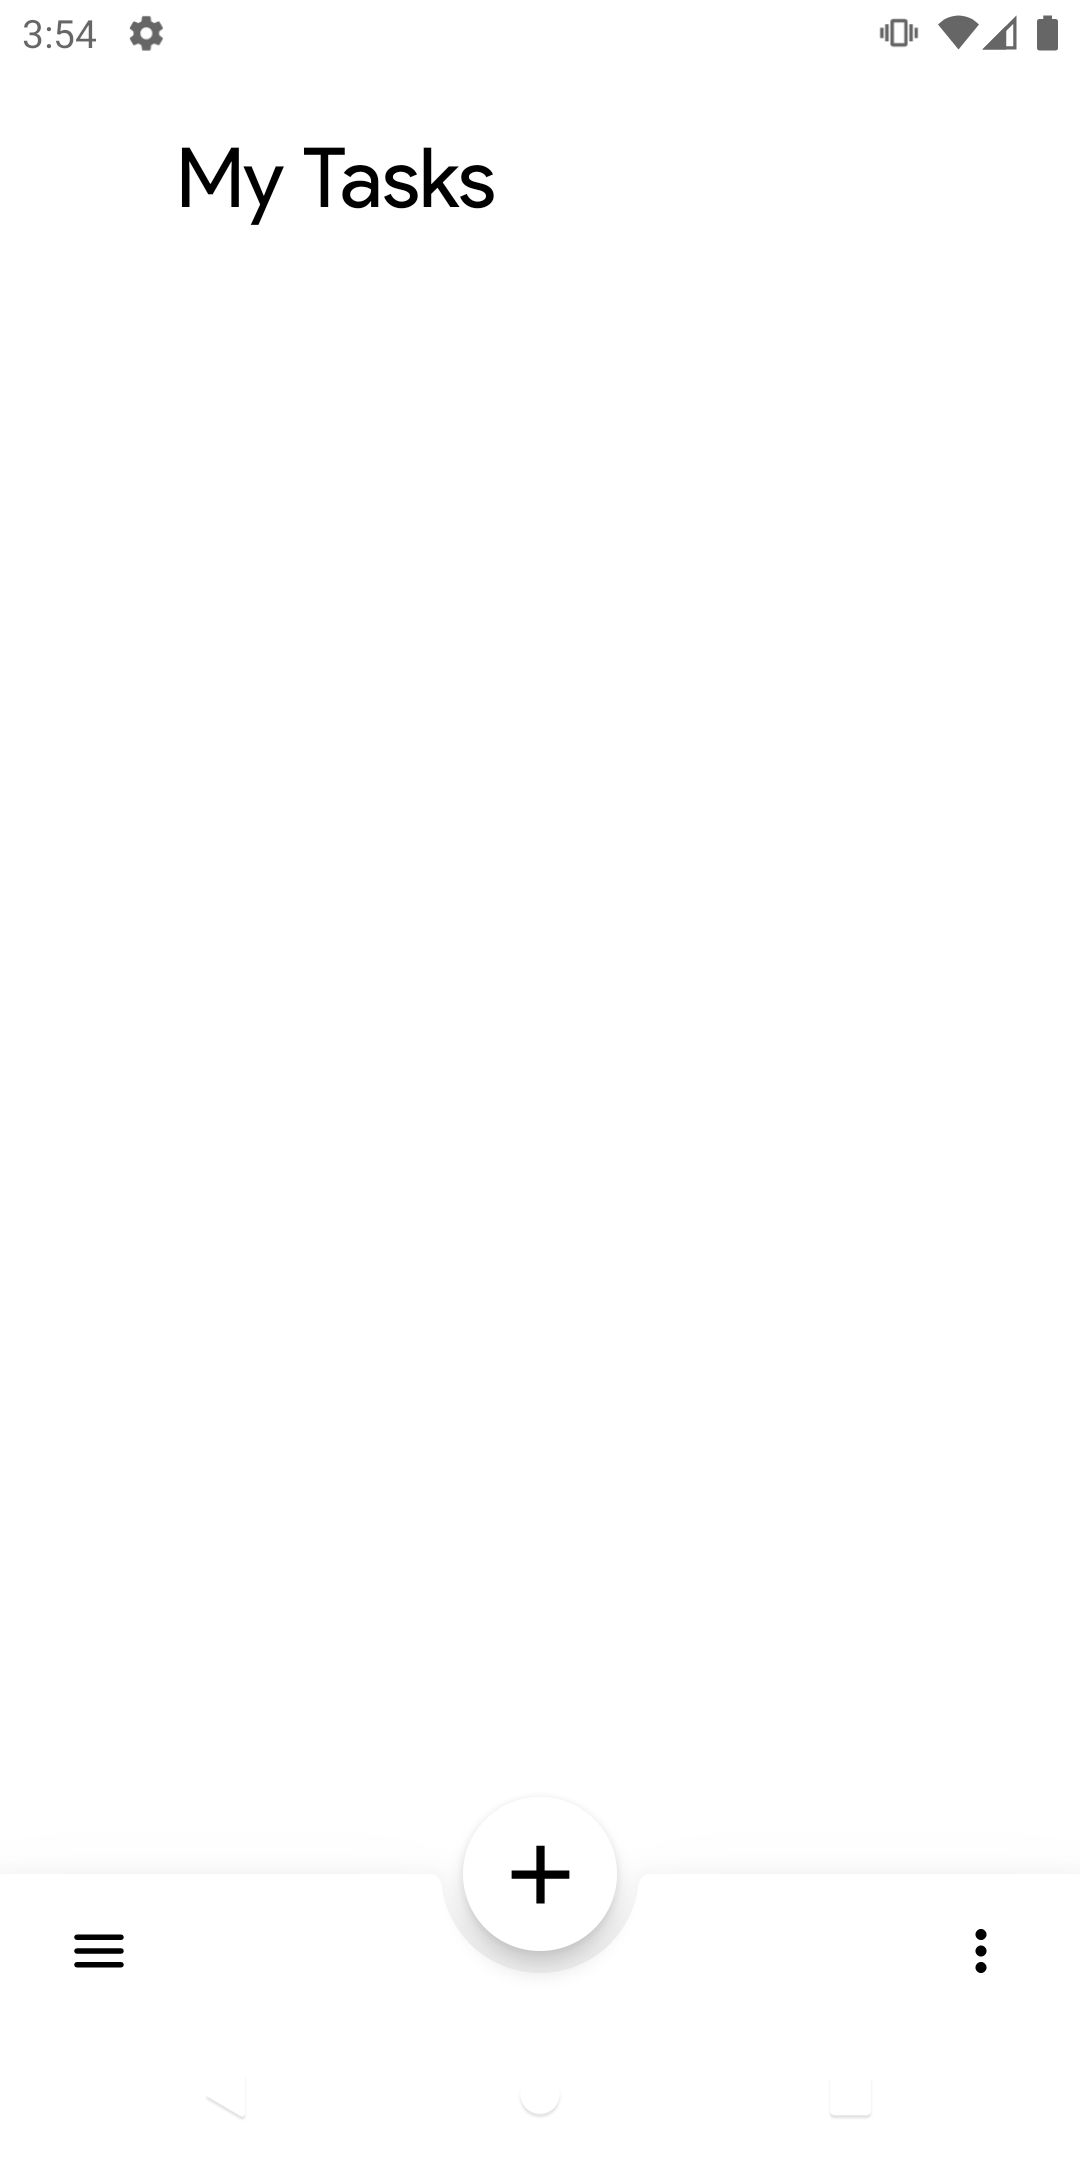
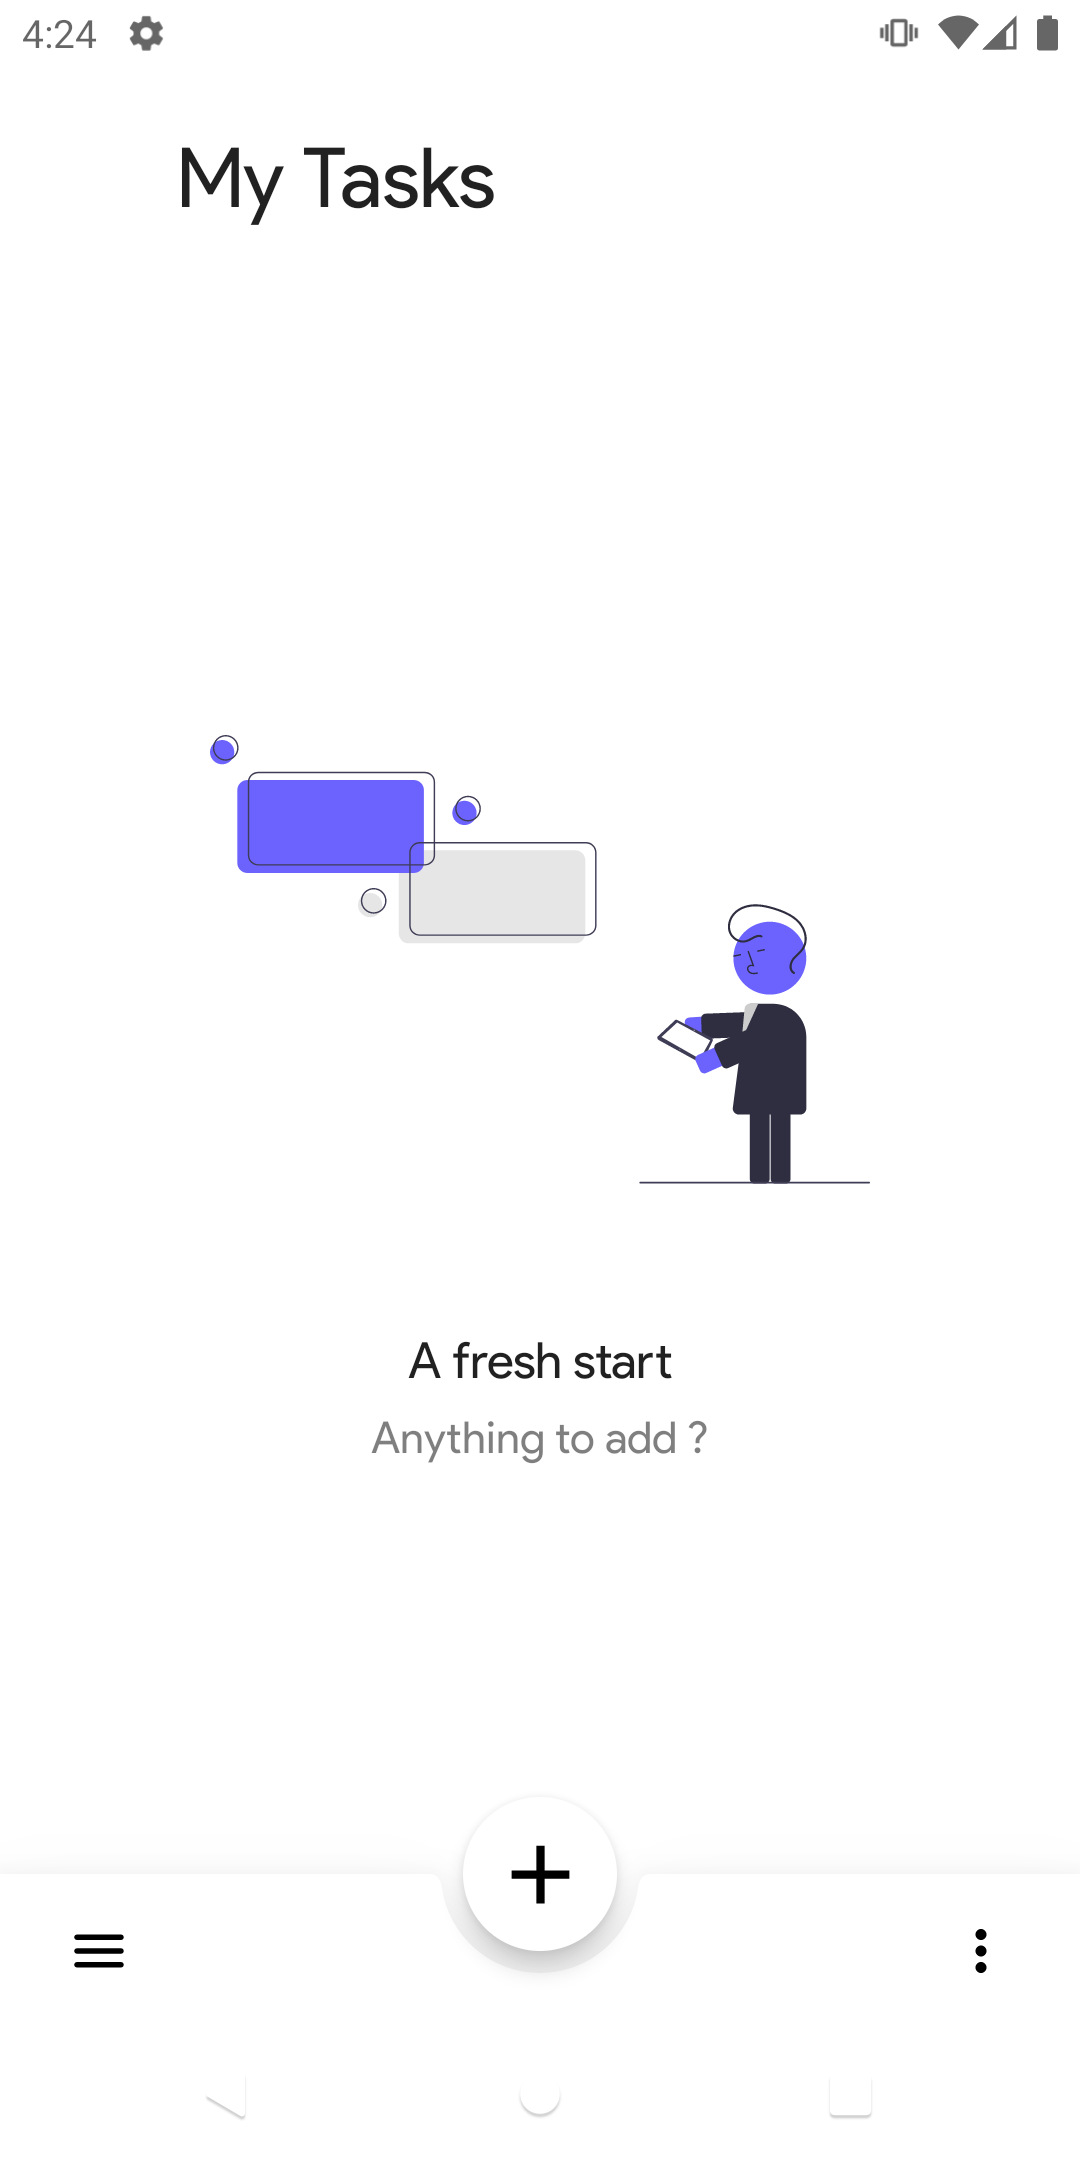
Modified main screen and fixed bugs

diff --git a/app/src/main/java/com/vivek/jettasks/ui/screens/main/Main.kt b/app/src/main/java/com/vivek/jettasks/ui/screens/main/Main.kt
@@ -3,7 +3,6 @@ package com.vivek.jettasks.ui.screens.main
 import android.os.Build
 import androidx.annotation.RequiresApi
 import androidx.compose.foundation.ExperimentalFoundationApi
-import androidx.compose.foundation.Text
 import androidx.compose.foundation.border
 import androidx.compose.foundation.clickable
 import androidx.compose.foundation.layout.*
@@ -74,9 +73,13 @@ fun Routing.Main.Content(
             },
             isFloatingActionButtonDocked = true,
             floatingActionButtonPosition = FabPosition.Center,
-        ) {
+        ) { innerPadding ->
 
-            LazyColumn {
+            if (activeTasks.isEmpty() && completedTasks.isEmpty()) {
+                FreshStart()
+            }
+
+            LazyColumn(modifier = Modifier.padding(innerPadding)) {
                 item { MainHeader() }
 
                 items(activeTasks) { task ->
@@ -107,7 +110,10 @@ fun Routing.Main.Content(
                         items(completedTasks) { task ->
                             TaskItem(
                                 task = task,
-                                modifier = Modifier.clickable(onClick = { onTaskClick(task) }),
+                                modifier = Modifier.clickable(
+                                    onClick = { onTaskClick(task) },
+                                    indication = null
+                                ),
                                 onTaskComplete = {
                                     tasksViewModel.activeTask(task = it)
                                     snackBarText = "1 Active"
@@ -117,6 +123,7 @@ fun Routing.Main.Content(
                         }
                     }
                 }
+
             }
         }
     }

diff --git a/app/src/main/java/com/vivek/jettasks/ui/screens/main/BottomSheetContent.kt b/app/src/main/java/com/vivek/jettasks/ui/screens/main/BottomSheetContent.kt
@@ -3,7 +3,6 @@ package com.vivek.jettasks.ui.screens.main
 import android.os.Build
 import androidx.annotation.RequiresApi
 import androidx.compose.foundation.ExperimentalFoundationApi
-import androidx.compose.foundation.Text
 import androidx.compose.foundation.layout.*
 import androidx.compose.foundation.shape.RoundedCornerShape
 import androidx.compose.material.*
@@ -35,12 +34,6 @@ fun TaskInput(
     var date by remember { mutableStateOf(TextFieldValue("")) }
     var showDetailsInput by remember { mutableStateOf(false) }
     var showDateChip by remember { mutableStateOf(false) }
-
-    // not showing details input when fab is clicked again, weird feature in Google Tasks app
-    if (!sheetState.isVisible) {
-        showDetailsInput = false
-        showDateChip = false
-    }
 
     Column {
         com.vivek.jettasks.ui.components.TextField(
@@ -111,7 +104,6 @@ fun TaskInput(
                 onClick = {
                     onSaveClick(Task(todo = todo.text, details = details.text, date = date.text))
                     todo = TextFieldValue("")
-                    details = TextFieldValue("")
                     sheetState.hide()
                 },
                 enabled = todo.text.isNotEmpty(),
@@ -125,6 +117,14 @@ fun TaskInput(
                 Text(text = "Save", style = typography.h6)
             }
         }
+    }
+
+    // not showing details input when fab is clicked again, weird feature in Google Tasks app
+    if (!sheetState.isVisible) {
+        showDetailsInput = false
+        showDateChip = false
+        details = TextFieldValue("")
+        date = TextFieldValue("")
     }
 }
 

diff --git a/app/src/main/java/com/vivek/jettasks/ui/screens/main/AppBars.kt b/app/src/main/java/com/vivek/jettasks/ui/screens/main/AppBars.kt
@@ -1,10 +1,11 @@
 package com.vivek.jettasks.ui.screens.main
 
-import androidx.compose.foundation.Text
+import androidx.compose.foundation.Image
 import androidx.compose.foundation.clickable
 import androidx.compose.foundation.layout.*
 import androidx.compose.foundation.shape.RoundedCornerShape
 import androidx.compose.material.*
+import androidx.compose.material.MaterialTheme.colors
 import androidx.compose.material.icons.Icons
 import androidx.compose.material.icons.rounded.Menu
 import androidx.compose.material.icons.rounded.MoreVert
@@ -13,6 +14,7 @@ import androidx.compose.ui.Alignment
 import androidx.compose.ui.Modifier
 import androidx.compose.ui.res.vectorResource
 import androidx.compose.ui.unit.dp
+import com.vivek.jettasks.R
 import com.vivek.jettasks.ui.screens.Routing
 import com.vivek.jettasks.ui.theme.typography
 import com.vivek.jettasks.utils.getIcon
@@ -112,3 +114,40 @@ fun Routing.Main.SubHeader(
         }
     }
 }
+
+@Composable
+fun Routing.Main.FreshStart() {
+    Column(
+        horizontalAlignment = Alignment.CenterHorizontally,
+        verticalArrangement = Arrangement.Center,
+        modifier = Modifier.fillMaxSize()
+    ) {
+        Image(vectorResource(id = R.drawable.ic_freshstart), modifier = Modifier.size(240.dp))
+        Spacer(modifier = Modifier.size(16.dp))
+
+        Text(text = "A fresh start", style = typography.body1)
+        Spacer(modifier = Modifier.size(8.dp))
+
+        Text(
+            text = "Anything to add ?",
+            style = typography.body2,
+            color = colors.onPrimary.copy(0.5f)
+        )
+    }
+}
+
+
+
+
+
+
+
+
+
+
+
+
+
+
+
+
